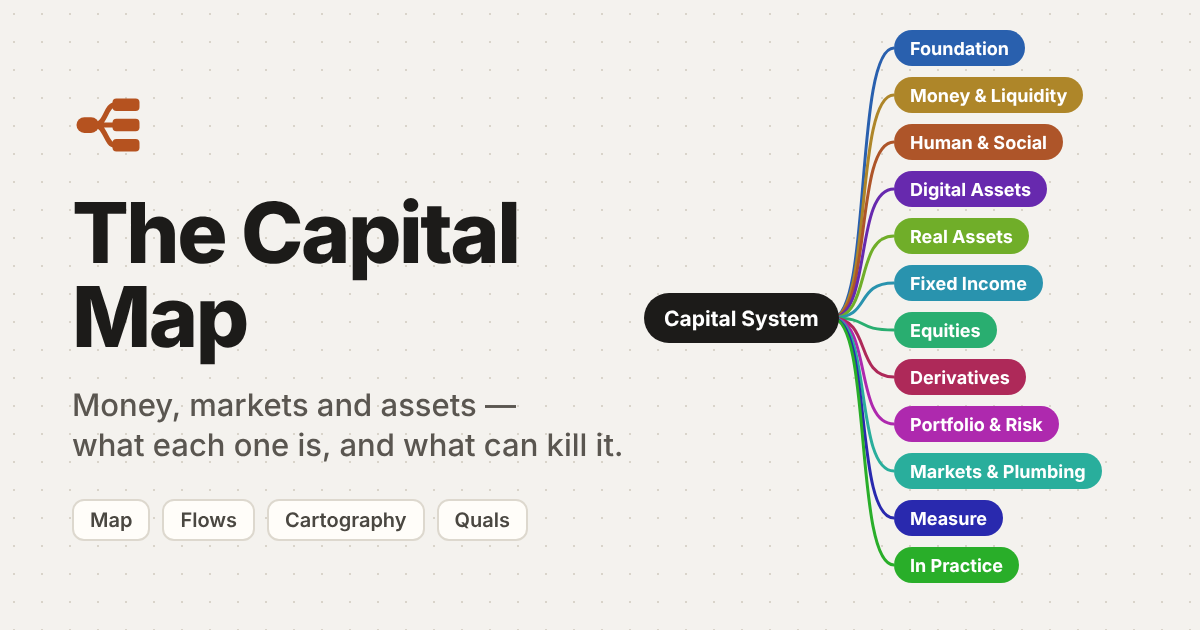
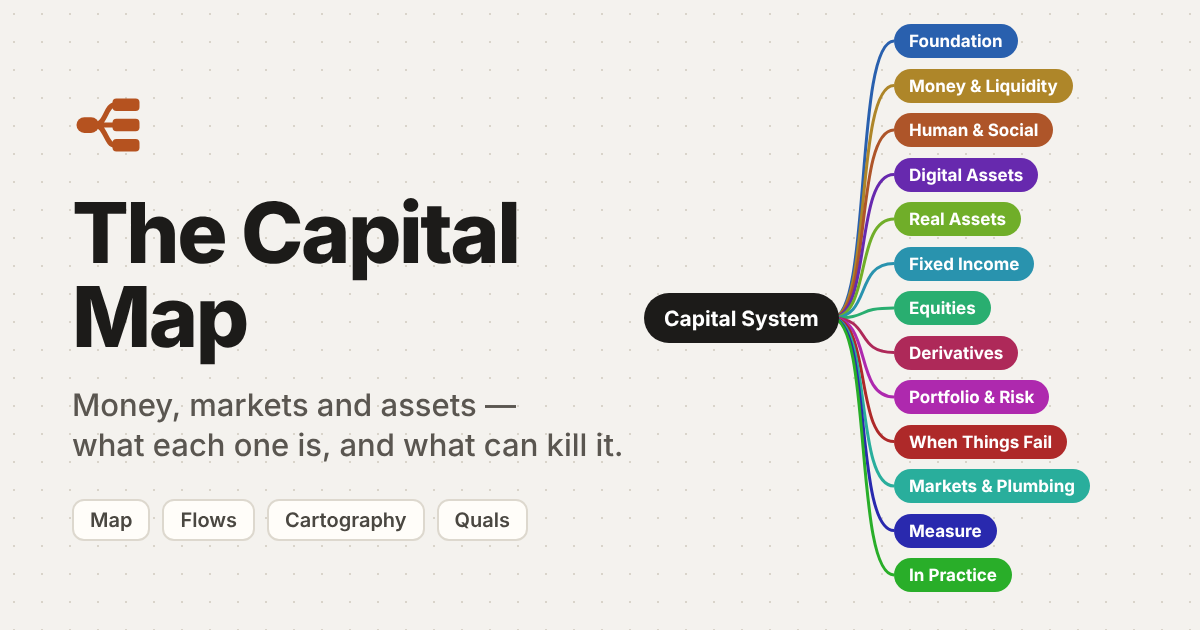
SCOPE, README and link preview: thirteen branches, three flows
Claude-Session: https://claude.ai/code/session_01WUXFzQjT7g7YXpb867VeK1

Changed region(s): [[0.6783, 0.0302, 0.925, 0.9651]]

diff --git a/SCOPE.md b/SCOPE.md
@@ -1,6 +1,6 @@
 # The Capital Map — Scope
 
-*Status: every branch written (no stubs). Live (open, unlisted: no password, search engines blocked). Next: the failure ladder. Last updated 2026-10-25.*
+*Status: every branch written (no stubs); the failure ladder has its first rungs. Live (open, unlisted: no password, search engines blocked). Last updated 2026-10-25.*
 
 ## What it is
 
@@ -23,7 +23,7 @@ Education only. Not financial advice.
 7. **The Cartography of Wealth is the headline lens and a data layer.** Every store of wealth carries `tier`, `killer` and `traits` in its frontmatter, shown in a box on its page. Placements are labelled as judgments. It sits alongside the conventional framing, not as the site's voice.
 8. **Human & Social Capital is a top-level branch.** Standard asset-class trees leave it out; the Cartography treats it as the root store.
 
-## Top-level branches (v2: twelve branches in four groups)
+## Top-level branches (v3: thirteen branches in four groups)
 
 Groups are labels drawn as clusters on the map, not a tree level (decided 2026-10-25). Inside *What you can own*, branches run from inside you to fully on the record, following the Cartography of Wealth.
 
@@ -38,13 +38,14 @@ Groups are labels drawn as clusters on the map, not a tree level (decided 2026-1
 | What you can own | Equities | **Written.** Shares, indices, funds and ETFs, financial statements, valuation, private business |
 | Putting it together | Derivatives | **Written.** Futures, options, perpetuals, leverage |
 | Putting it together | Portfolio & Risk | **Written.** Diversification, correlation, allocation, sizing, rebalancing, market regimes |
+| Putting it together | When Things Fail | **Written (first rungs).** The failure ladder hub, broker failure, capital controls, financial repression, currency failure, sovereign default. Still to write: insurers, clearing houses, ratings, confiscation, the market itself |
 | How it runs | Markets & Plumbing | **Written.** Exchanges, brokers, custody, settlement |
 | How it runs | Measure | **Written.** Returns, drawdown, volatility, Sharpe ratio |
 | How it runs | In Practice | **Written.** Tax, account types, common mistakes, data sources, charting (Tools folded in) |
 
 ## Cross-cutting views
 
-- **Flows:** built. *Where money comes from* (money created layer by layer) and *When a bank fails* (the backstops tested one by one).
+- **Flows:** built. *Where money comes from* (money created layer by layer), *When a bank fails* (the backstops tested one by one) and *When a country fails* (a debt crisis climbing the failure ladder).
 - **Cartography of Wealth:** the model page in Foundation, plus a dedicated **Cartography view** (`#/cartography`): the twelve stores on a two-axis chart, filterable by tier and by kind of killer.
 - **Regimes:** a page for now (Market Regimes).
 - **Quals:** live. Nine on the page from the start: CFA Levels I, II and III (core plus the Portfolio Management pathway), Mehrling's *Economics of Money and Banking*, FRM Parts I and II, CAIA Levels I and II, and Princeton's *Bitcoin and Cryptocurrency Technologies*. CFA I, Money & Banking, CAIA I, CAIA II and Princeton are mapped; CFA II, CFA III and FRM I–II are placeholders. Ethics modules are listed but out of scope. Left out on purpose: CMT (charting only), CFP (advice and planning), CIPM (too narrow), the CFA Level III Private Wealth and Private Markets pathways.
@@ -79,6 +80,7 @@ Groups are labels drawn as clusters on the map, not a tree level (decided 2026-1
 - **Geography (2026-10-25):** In Practice is written country-neutral: it explains how tax and accounts work, with a few labelled examples from large markets, and tells readers to check local rules.
 - **T-codes (2026-10-25):** dropped. They're a Supply Map feature (logistics transaction codes); the engine hides the index when no page has any.
 - **Launch gate:** settled. With every page written, the public test suite passes.
+- **Failure ladder (2026-10-25):** a 13th branch, *When Things Fail*, in *Putting it together* after Portfolio & Risk. Rung pages use one template (what fails, the backstop, where it runs out, cases, what it kills). Existing pages keep their parents; the ladder links to them rather than duplicating them (the bank rung is the Backstops page).
 - **Neutrality (2026-10-25):** every store of wealth shows how it has failed in history, so the site doesn't read as favouring any one store.
 - **Testing (2026-10-25):** 80/20. Content-only branches run their own suite plus a smoke set at desktop width; engine or layout changes run everything at all widths. Suites run in parallel.
 - **Outside sources (2026-10-25):** ideas from paid or copyrighted material can be used only in our own words, structure and names, with public cases, credited as `Study notes`. The source's wording, images and named metrics are never used; `test_backstops` guards the bank-failure material.

diff --git a/README.md b/README.md
@@ -2,7 +2,7 @@
 
 A free, independent reference to money, markets and assets: one connected map of cash, bonds, shares, real estate, gold and crypto, plus the skills and relationships that sit underneath them. Sibling of **The Supply Map**, and built on the same engine.
 
-Status: every branch is written (94 pages, no stubs). Next: an accuracy pass across the whole site. See `SCOPE.md` for decisions and open questions.
+Status: every branch is written (no stubs), including the first rungs of the failure ladder. Next: the remaining failure rungs and the Failures view. See `SCOPE.md` for decisions and open questions.
 
 ## How to view it
 
